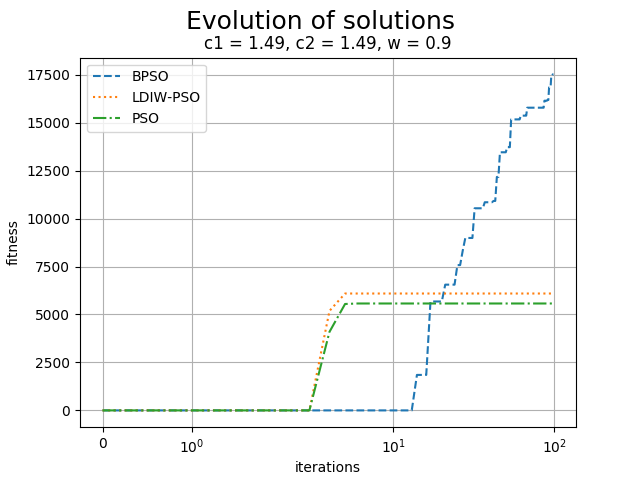
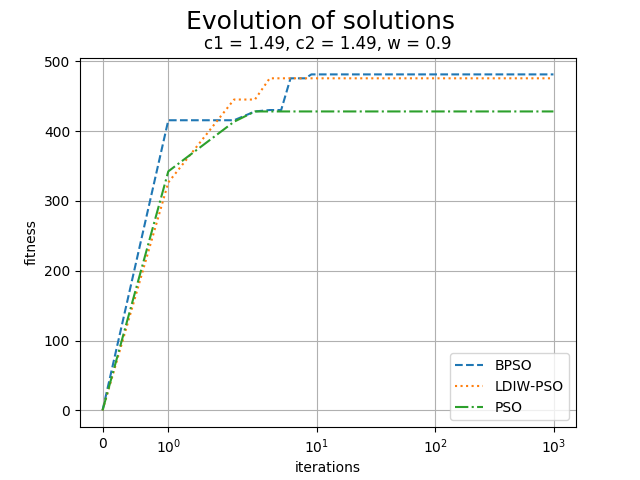
pso

diff --git a/main.py b/main.py
@@ -18,9 +18,9 @@ def save_img_plot(file_name):
 
 # -------- COST FUNCTION --------
 # function to optimize (maximize profit)
-def maximize(items):
+def maximize(items):       # items = particle position
     total_profit = profit(items)
-    return total_profit + check_weight(items, total_profit)
+    return check_weight(items, total_profit)
 
 
 # The function trying to maximize
@@ -40,7 +40,7 @@ def check_weight(items, total_profit):
     if total_weight <= max_weight:
         return total_profit
     else:
-        return -total_profit
+        return 0
 
 
 # -------- PARTICLE --------
@@ -169,7 +169,7 @@ class PSO:
                     self.fit_global_best = float(swarm[j].fit_current)
 
             if decrease:
-                decr = round(0.9 / max_iter * iteration, 1)  # linear decrease inertia w (LDIW) from 0.9 -> 0.0
+                decr = round(0.9 / max_iter * iteration, 1)  # linear decreasing inertia w (LDIW) from 0.9 -> 0.0
             else:
                 decr = 0  # zero for not decreasing w
 
